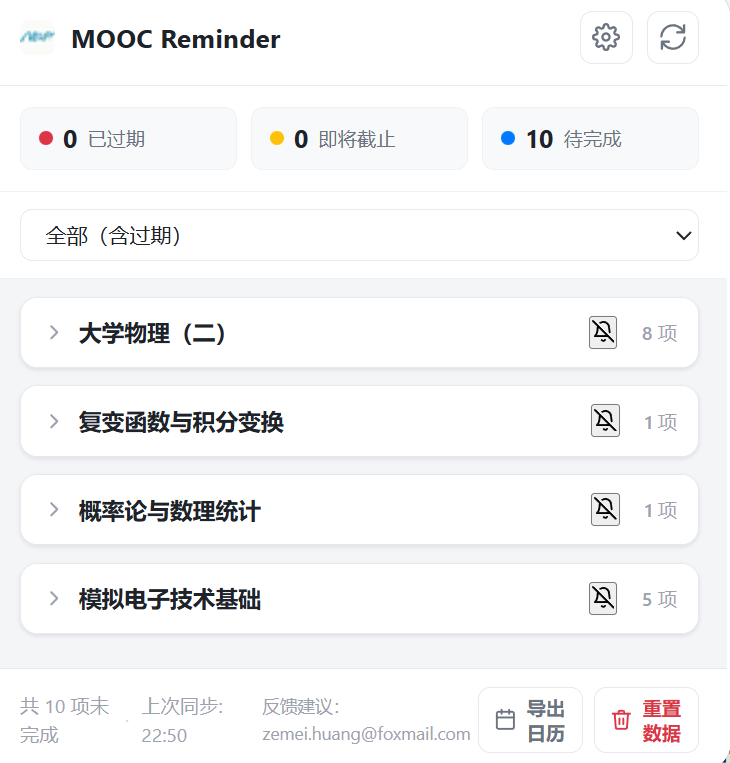
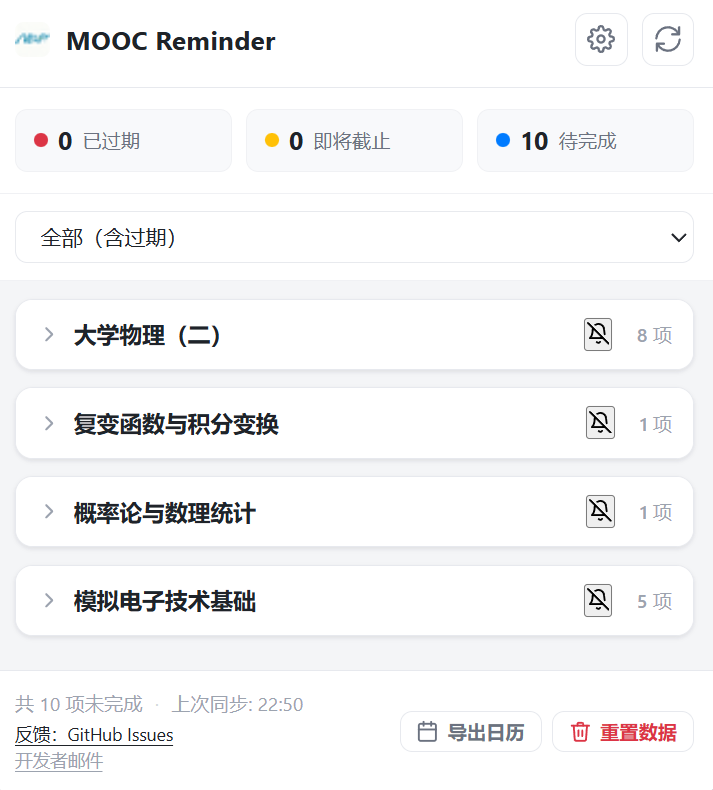
release: 1.1.0
manifest.json（以及对齐用的 package.json）1.0.0 → 1.1.0；changelog 的「未发布」段改为
「## 1.1.0（2026-09-21）」，验证状态说明保留（标 ✅ 的是用户实测过的，其余只有代码与单测覆盖）。

本版累积的内容：清除数据/删除课程后的课程列表自愈、后台被冻结页面不再拖死抓取、
SPOC 双 term 并集、作业跳转目标修复、刷新失败的可见日志、已追踪课程管理（忽略/删除）、
更新提醒（含开关）、打包与 CI 复用同一份配方。

发版校验已本地模拟：
  tag_version=1.1.0 == manifest_version=1.1.0（release.yml 的第一道校验会通过）
  npm run package → mooc-reminder-v1.1.0.zip（608K，包内仍只有 manifest/README/LICENSE/src）
  npm run validate → 135 项通过、eslint 0 error

diff --git a/.dsh/logs/changelog.md b/.dsh/logs/changelog.md
@@ -4,11 +4,11 @@
 >
 > 本文件位于 `.dsh/logs/`，但定位与同目录开发日志不同：开发日志记录「为什么这么做」的实现过程与技术决策，本文件只做版本变更回顾。两者不要互相替代。
 
-## 未发布
+## 1.1.0（2026-09-21）
 
-> **验证状态（2026-09-21 用户实测）**：标 ✅ 的条目已在真实浏览器里确认生效（清除数据后刷新可恢复、
+> **验证状态**：标 ✅ 的条目已在真实浏览器里确认生效（清除数据后刷新可恢复、
 > 课程页挂后台也能抓到、作业跳转目标完全正确）。其余条目目前只有代码与单测覆盖，尚未在浏览器逐项验证。
-> 「同一课程页面只抓取一次」是 30 分钟节流的设计行为，本次未改动，见 `backlog.md`。
+> 「同一课程页面只抓取一次」是 30 分钟节流的设计行为，本版未改动，见 `backlog.md`。
 
 - ✅ **修复「某门课不切到它的页面就抓不到」**：浏览器会冻结、甚至卸载长期挂在后台的标签页，这种页面里已经没有插件的代码了——既不能上报「我是哪门课」，也不能接手抓取。以前插件挑到这样一个页面时会白等 90 秒并把整次刷新判为失败（所以有时候刷新没反应、过一会儿又好了），而且只要列表里还有别的课，就再也不会去问那些页面。现在每次刷新都会先问一遍**所有已打开的课程页**：能回答的页面会顺手重新登记自己的课程，抓取也只会交给刚刚回答过、确实活着的页面；一个能回答的都没有时，插件会用一个临时的后台页面把作业抓下来。
 - ✅ **修复「清除数据后再刷新，一条都抓不到」**：以前「清除数据 / 删除课程」之后，插件只会向已经打开的页面索要课程**链接**，而课程学习页上根本没有这类链接（左侧菜单用的是菜单项 ID，不是链接），于是课程列表永远恢复不了，只能重新打开页面。现在课程页会自己上报身份，插件也会顺带询问所有已打开的 icourse163 页面（「我的课程」页里的链接最全），刷新即可自动恢复。注意：这样只能恢复**当时打开着的**课程页；没打开的课程仍需打开一次「我的课程」页才会回来。
